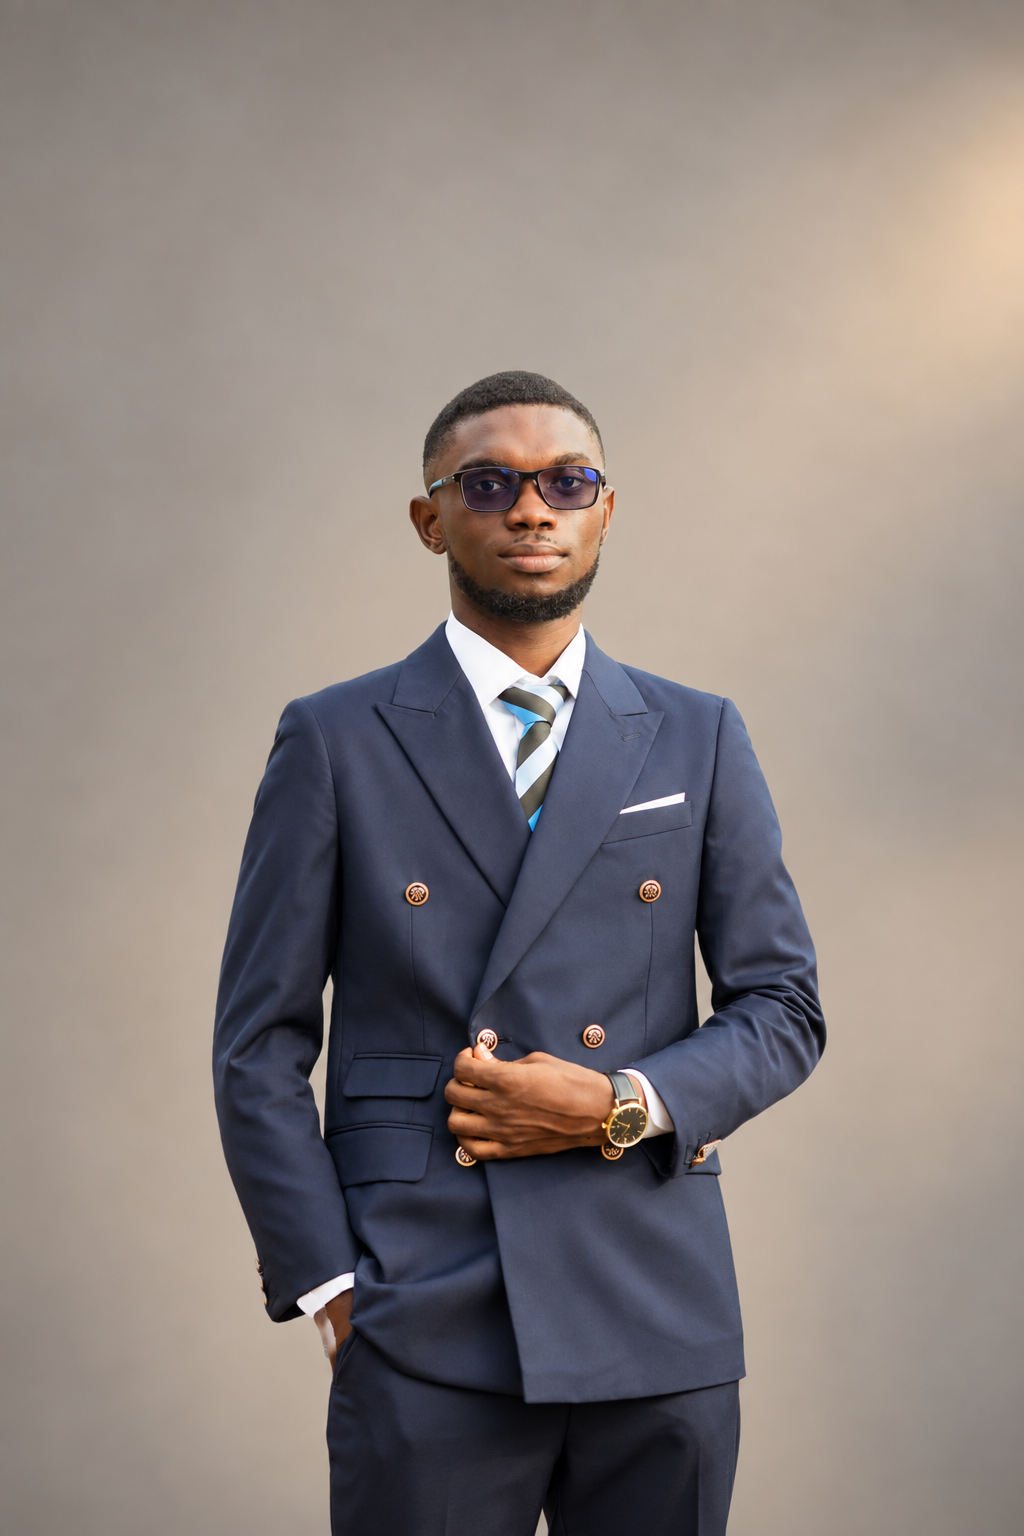
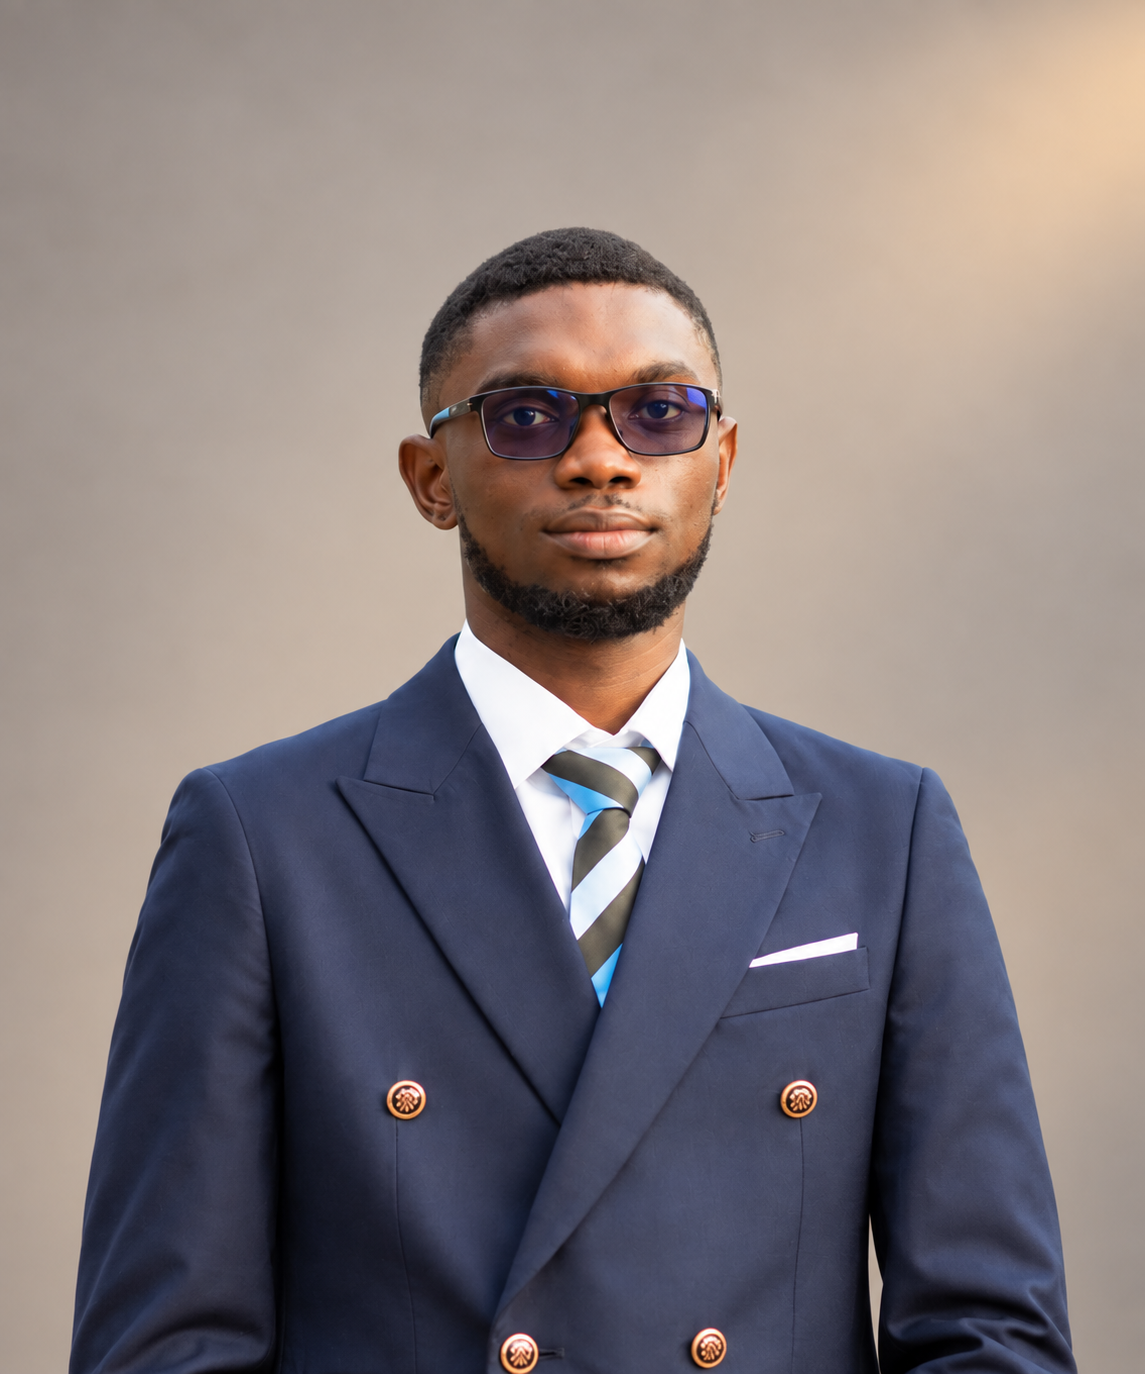
Changes made to homepage (picture and summary)

diff --git a/src/pages/Home.jsx b/src/pages/Home.jsx
@@ -3,5 +3,5 @@ import { Link } from "react-router-dom";
 import Layout from "../components/Layout";
 import ProjectCard from "../components/ProjectCard";
 const featured = [["Glaucoma Detection Using Deep Learning", "A comparative study of convolutional neural networks, ResNet, and vision transformers for early diagnostic assessment.", ["Python", "PyTorch", "Computer Vision"], "retina"], ["Power BI Analytics Dashboards", "Interactive intelligence dashboards for medical practices and business operations with automated KPI reporting.", ["Power BI", "Data Analysis", "SQL"], "dashboard"], ["Azure Data Engineering Solutions", "End-to-end data pipeline implementations featuring Azure Data Factory, robust staging, and database optimisation.", ["Azure", "SQL", "ETL"], "azure"]];
-export default function Home() { return <Layout><main><section className="hero"><div className="hero-inner"><div><span className="eyebrow">Hi, I'm</span><h1>Emmanuel Obeng Agyen</h1><div className="hero-role">Data Scientist | Biomedical Engineer | MSc Computer Science Candidate</div><p className="hero-copy">I use data science, machine learning, and innovative technology to solve real-world problems in healthcare, education, and business. Currently specializing in advanced computer vision solutions and artificial intelligence pipelines.</p><div className="hero-buttons"><Link to="/projects" className="primary-btn">View My Projects</Link><a className="secondary-btn" href={`${import.meta.env.BASE_URL}cv/Emmanuel_Obeng_Agyen_CV.pdf`} download>Download CV</a></div><div className="socials"><a href="https://linkedin.com/in/emmanuelagyen" aria-label="LinkedIn"><FaLinkedin /></a><a href="https://github.com/eoagyen" aria-label="GitHub"><FaGithub /></a><a href="mailto:emmanuelagyen@gmail.com" aria-label="Email"><FaEnvelope /></a></div><p className="hero-quote">"Data for a healthier, smarter, and more inclusive future."</p></div><img className="portrait" src={`${import.meta.env.BASE_URL}images/emmanuel-portrait-updated.png`} alt="Emmanuel Obeng Agyen" /></div></section><section className="stats"><Stat icon={<FaGraduationCap />} value="250+" label="Students Trained" /><Stat icon={<FaUsers />} value="150+" label="Staff Trained" /><Stat icon={<FaMedal />} value="588+" label="DigiCAP Learners" /><Stat icon={<FaDatabase />} value="5+" label="Major Projects" /></section><section className="section"><div className="section-inner"><div className="section-title"><h2>Featured Projects</h2><Link to="/projects" className="text-link">See All <FaArrowRight /></Link></div><div className="projects-grid">{featured.map(([title,description,tags,visual]) => <ProjectCard key={title} title={title} description={description} tags={tags} visual={visual} />)}</div></div></section></main></Layout>; }
+export default function Home() { return <Layout><main><section className="hero"><div className="hero-inner"><div><span className="eyebrow">Hi, I'm</span><h1>Emmanuel Obeng Agyen</h1><div className="hero-role">Data Analyst | Data Scientist | Data Analyst Instructor</div><p className="hero-copy">I use data analytics, data science, and innovative technology to transform data into actionable insights and solve real-world problems across healthcare, education, and business. Currently expanding my expertise in machine learning engineering, computer vision, and scalable AI systems.</p><div className="hero-buttons"><Link to="/projects" className="primary-btn">View My Projects</Link><a className="secondary-btn" href={`${import.meta.env.BASE_URL}cv/Emmanuel_Obeng_Agyen_CV.pdf`} download>Download CV</a></div><div className="socials"><a href="https://linkedin.com/in/emmanuelagyen" aria-label="LinkedIn"><FaLinkedin /></a><a href="https://github.com/eoagyen" aria-label="GitHub"><FaGithub /></a><a href="mailto:emmanuelagyen@gmail.com" aria-label="Email"><FaEnvelope /></a></div><p className="hero-quote">"Data for a healthier, smarter, and more inclusive future."</p></div><img className="portrait" src={`${import.meta.env.BASE_URL}images/emmanuel-portrait-updated.png`} alt="Emmanuel Obeng Agyen" /></div></section><section className="stats"><Stat icon={<FaGraduationCap />} value="250+" label="Students Trained" /><Stat icon={<FaUsers />} value="150+" label="Staff Trained" /><Stat icon={<FaMedal />} value="588+" label="DigiCAP Learners" /><Stat icon={<FaDatabase />} value="5+" label="Major Projects" /></section><section className="section"><div className="section-inner"><div className="section-title"><h2>Featured Projects</h2><Link to="/projects" className="text-link">See All <FaArrowRight /></Link></div><div className="projects-grid">{featured.map(([title,description,tags,visual]) => <ProjectCard key={title} title={title} description={description} tags={tags} visual={visual} />)}</div></div></section></main></Layout>; }
 function Stat({ icon, value, label }) { return <div className="stat-card"><span className="stat-icon">{icon}</span><div><strong>{value}</strong><small>{label}</small></div></div>; }
